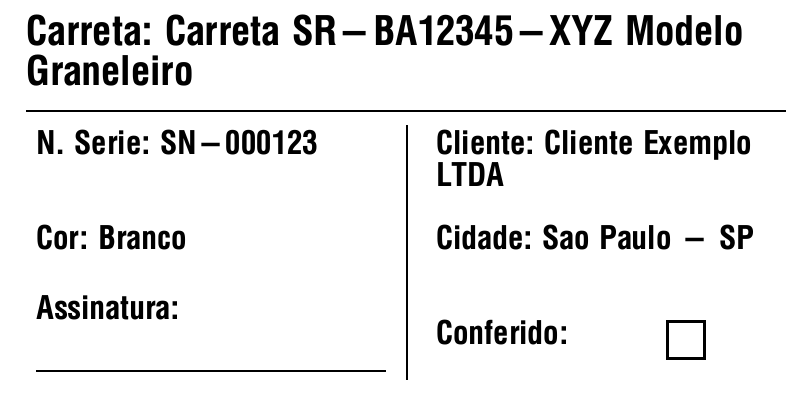
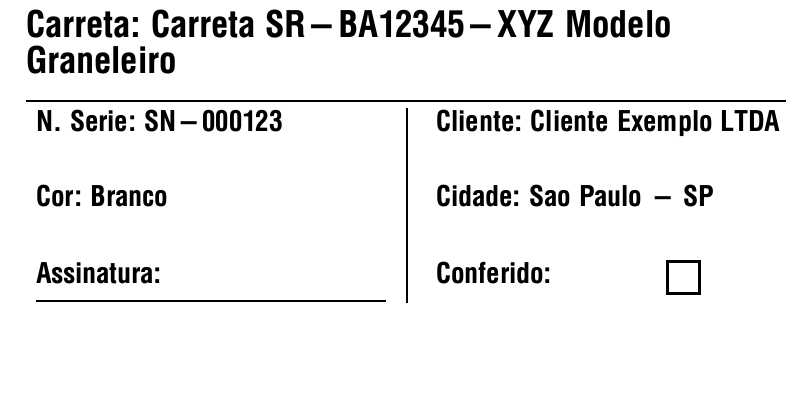
aplicado melhoria na etiqueta

diff --git a/tkinter_etiqueta.py b/tkinter_etiqueta.py
@@ -324,30 +324,30 @@ def zpl_recebimento(cliente: str, carreta: str, cidade: str, n_serie: str, cor: 
     return f"""^XA
 ^CI28
 ^PW800
-^LL400
+^LL320
 ^LT0
 ^LH0,0
 
 ^FX Carreta (linha unica em destaque, largura total)
-^FO20,15^A0N,40,40^FB760,2,0,L,0^FDCarreta: {carreta}^FS
+^FO20,10^A0N,36,36^FB760,2,0,L,0^FDCarreta: {carreta}^FS
 
 ^FX Linha divisoria horizontal
-^FO20,110^GB760,2,2^FS
+^FO20,100^GB760,2,2^FS
 
 ^FX Linha divisoria vertical
-^FO400,125^GB2,255,2^FS
+^FO400,108^GB2,195,2^FS
 
 ^FX Coluna esquerda
-^FO30,130^A0N,32,32^FB350,2,0,L,0^FDN. Serie: {n_serie}^FS
-^FO30,225^A0N,32,32^FB350,2,0,L,0^FDCor: {cor}^FS
-^FO30,295^A0N,32,32^FB350,1,0,L,0^FDAssinatura:^FS
-^FO30,370^GB350,2,2^FS
+^FO30,110^A0N,28,28^FB350,2,0,L,0^FDN. Serie: {n_serie}^FS
+^FO30,185^A0N,28,28^FB350,2,0,L,0^FDCor: {cor}^FS
+^FO30,262^A0N,28,28^FB350,1,0,L,0^FDAssinatura:^FS
+^FO30,300^GB350,2,2^FS
 
 ^FX Coluna direita
-^FO430,130^A0N,32,32^FB350,2,0,L,0^FDCliente: {cliente}^FS
-^FO430,225^A0N,32,32^FB350,2,0,L,0^FDCidade: {cidade}^FS
-^FO430,320^A0N,32,32^FDConferido:^FS
-^FO660,320^GB40,40,3^FS
+^FO430,110^A0N,28,28^FB350,2,0,L,0^FDCliente: {cliente}^FS
+^FO430,185^A0N,28,28^FB350,2,0,L,0^FDCidade: {cidade}^FS
+^FO430,262^A0N,28,28^FDConferido:^FS
+^FO660,260^GB35,35,3^FS
 
 ^XZ
 """
